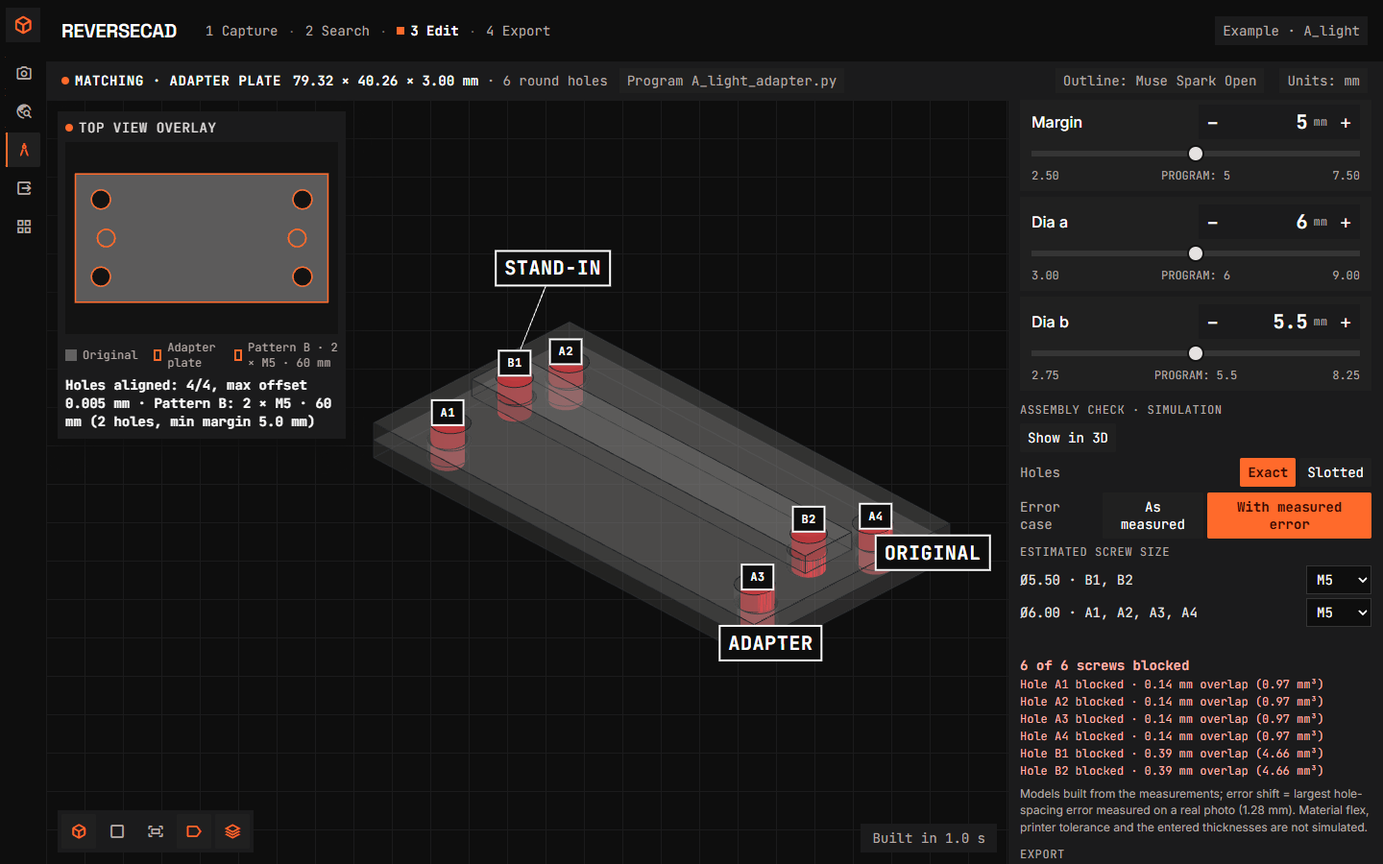
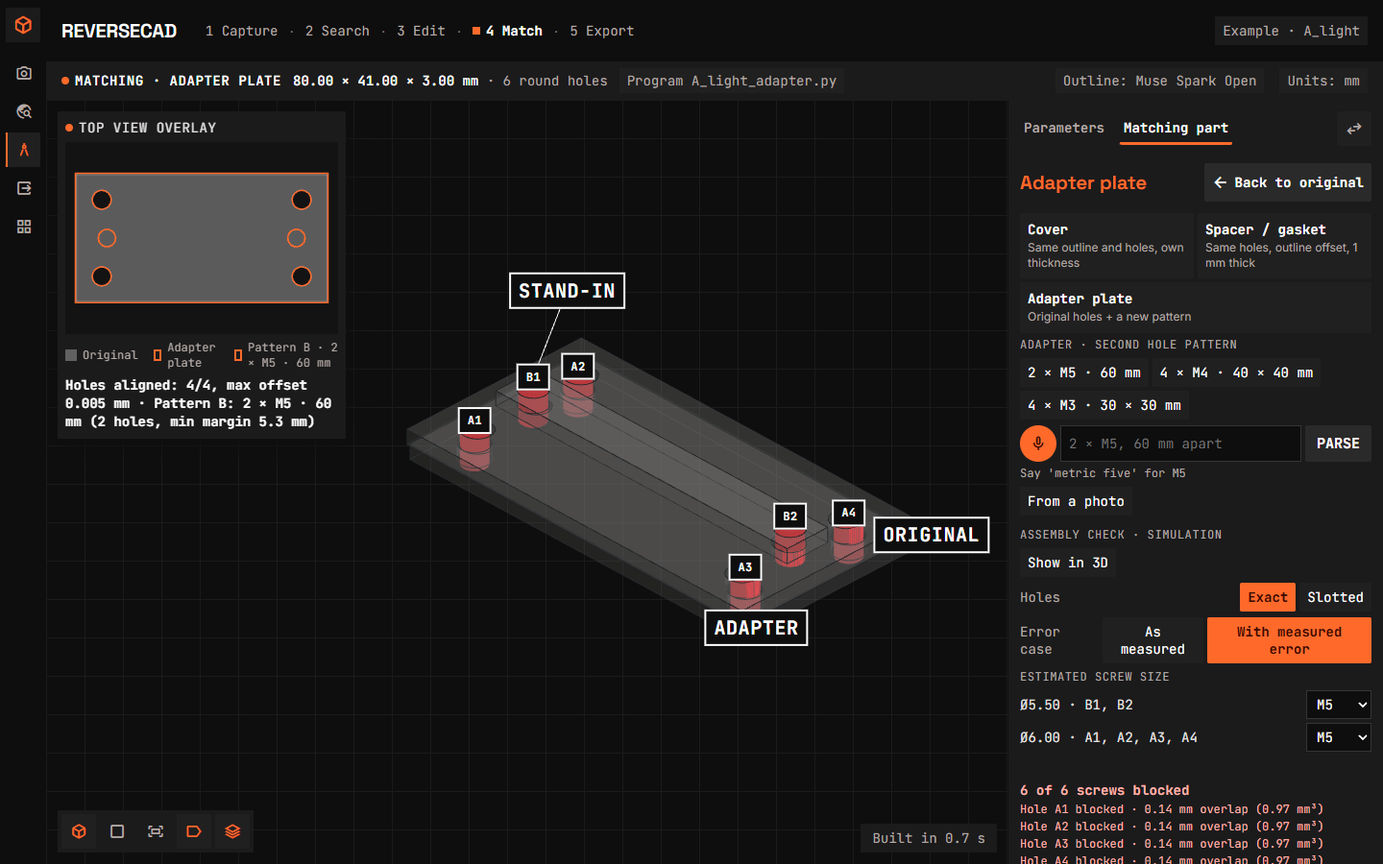
[muse-code] Matching tab, step 4 Match, panel width toggle
Edit panel tabs (Parameters/Matching part), 5-step bar with Match, ?step=match link, 390/520px width toggle; label layout hardened (monotone lifts, wider strip, measured metrics). Layout only; 289 passed, 1 skipped; node clean.

diff --git a/webapp/static/index.html b/webapp/static/index.html
@@ -1,8 +1,9 @@
 <!doctype html>
 <!-- ReverseCAD web app. Layout adapted from the Stitch screens in design/ (capture, search, edit):
      icon rail, top bar, a sub-bar per screen, a large stage and an inspector. Every value on screen
-     is filled in by app.js from the back end. Open with ?run=<name>&step=capture|measure|search|edit
-     to jump straight to a screen of a saved run (used for screenshots and recordings). -->
+     is filled in by app.js from the back end. Open with ?run=<name>&step=capture|measure|search|edit|match
+     to jump straight to a screen of a saved run (match = the edit screen with the Matching part
+     tab; &match=adapter&pattern=N runs the adapter flow first). Used for screenshots and recordings. -->
 <html lang="en">
 <head>
   <meta charset="utf-8">
@@ -41,7 +42,8 @@
       <button data-screen="capture">1 Capture</button><span class="dot">·</span>
       <button data-screen="search" disabled>2 Search</button><span class="dot">·</span>
       <button data-screen="edit" disabled>3 Edit</button><span class="dot">·</span>
-      <button data-screen="export" disabled>4 Export</button>
+      <button data-screen="match" disabled>4 Match</button><span class="dot">·</span>
+      <button data-screen="export" disabled>5 Export</button>
     </nav>
     <div class="progress hidden" id="progress">
       <div class="progress-text"><span id="progress-label"></span><span class="progress-count" id="progress-count"></span></div>
@@ -234,16 +236,17 @@
           </div>
           <div class="model-status" id="model-status"></div>
         </div>
-        <aside class="edit-panel" id="edit-panel">
-          <div class="matching-bar hidden" id="matching-bar">
-            <span class="matching-name" id="matching-name"></span>
-            <button id="matching-back"><span class="icon">arrow_back</span>Back to original</button>
+        <aside class="edit-panel" id="edit-panel" data-tab="parameters">
+          <div class="panel-tabs">
+            <button class="panel-tab-button active" data-tab="parameters">Parameters</button>
+            <button class="panel-tab-button" data-tab="matching">Matching part</button>
+            <button class="icon-button" id="panel-wide" title="Wide panel"><span class="icon">swap_horiz</span></button>
           </div>
-          <div class="edit-panel-head">
+          <div class="edit-panel-head tab-parameters-only">
             <div><h2>Design parameters</h2><span class="label">named in the program</span></div>
             <button class="icon-button" id="reset-parameters" title="Reset to the program's values"><span class="icon">restart_alt</span></button>
           </div>
-          <div class="break-card hidden" id="break-card">
+          <div class="break-card hidden tab-parameters-only" id="break-card">
             <div class="break-head"><span class="break-title"><span class="icon accent">warning</span>Possible break detected</span><span class="chip-muted chip-small">Muse Wonder</span></div>
             <p class="break-suggestion" id="break-suggestion"></p>
             <div class="break-parts" id="break-parts"></div>
@@ -254,10 +257,13 @@
               <button class="break-ignore" id="break-ignore">Ignore</button>
             </div>
           </div>
-          <div class="sliders" id="sliders"></div>
-          <div class="matching-block" id="matching-block">
-            <button class="matching-open" id="matching-open"><span class="icon">layers</span>Make a matching part</button>
-            <div class="matching-choices hidden" id="matching-choices">
+          <div class="sliders tab-parameters-only" id="sliders"></div>
+          <div class="matching-bar hidden tab-matching-only" id="matching-bar">
+            <span class="matching-name" id="matching-name"></span>
+            <button id="matching-back"><span class="icon">arrow_back</span>Back to original</button>
+          </div>
+          <div class="matching-block tab-matching-only" id="matching-block">
+            <div class="matching-choices" id="matching-choices">
               <button data-kind="cover"><strong>Cover</strong><span>Same outline and holes, own thickness</span></button>
               <button data-kind="spacer"><strong>Spacer / gasket</strong><span>Same holes, outline offset, 1 mm thick</span></button>
               <button data-kind="adapter"><strong>Adapter plate</strong><span>Original holes + a new pattern</span></button>
@@ -301,7 +307,7 @@
               <p class="status-line" id="adapter-status"></p>
             </div>
           </div>
-          <div class="assembly-block hidden" id="assembly-block">
+          <div class="assembly-block hidden tab-matching-only" id="assembly-block">
             <span class="label">Assembly check · simulation</span>
             <div class="assembly-row"><button type="button" id="assembly-show">Show in 3D</button></div>
             <div class="assembly-row" id="assembly-style-row">
@@ -320,7 +326,7 @@
             <div class="assembly-verdict hidden" id="assembly-verdict"></div>
             <p class="assembly-caption">Models built from the measurements; error shift = largest hole-spacing error measured on a real photo (1.28 mm). Material flex, printer tolerance and the entered thicknesses are not simulated.</p>
           </div>
-          <div class="voice-card" id="voice-card">
+          <div class="voice-card tab-parameters-only" id="voice-card">
             <div class="voice-top">
               <button class="mic" id="voice-mic" title="Speak a command (Muse Voice Transcribe)" disabled><span class="icon">mic</span></button>
               <div class="voice-text">
@@ -335,7 +341,7 @@
             </div>
             <p class="break-note" id="voice-note"></p>
           </div>
-          <div class="exports-block">
+          <div class="exports-block tab-parameters-only">
             <span class="label">Export</span>
             <div class="exports">
               <button data-format="step"><strong>STEP</strong><span>Solid for CAD</span></button>

diff --git a/webapp/static/app.js b/webapp/static/app.js
@@ -42,24 +42,44 @@ const mm = (value, digits = 2) => `${Number(value).toFixed(digits)} mm`;
 
 // ---------- screens ----------
 function setScreen(screen) {
+  // "match" is step 4: the edit screen with the Matching part tab (one source of truth for both).
   state.screen = screen;
-  document.querySelectorAll("#steps button, #rail button").forEach((b) => b.classList.toggle("active", b.dataset.screen === screen));
-  ["capture", "search", "edit", "export", "parts"].forEach((name) => $(`screen-${name}`).classList.toggle("hidden", name !== screen));
+  const section = screen === "match" ? "edit" : screen;
+  document.querySelectorAll("#steps button, #rail button").forEach((b) => b.classList.toggle("active",
+    b.dataset.screen === screen || (screen === "match" && b.dataset.screen === "edit" && b.closest("#rail"))));
+  ["capture", "search", "edit", "export", "parts"].forEach((name) => $(`screen-${name}`).classList.toggle("hidden", name !== section));
+  if (section === "edit") selectPanelTab(screen === "match" ? "matching" : "parameters");
   if (screen === "capture") render();
-  if (screen === "edit" && state.viewer) state.viewer.resize();
+  if (section === "edit" && state.viewer) state.viewer.resize();
   updateHeader();
 }
+
+function selectPanelTab(tab) {
+  // Instant show/hide only, so switching tabs keeps every slider value, input and verdict.
+  document.querySelectorAll(".panel-tab-button").forEach((b) => b.classList.toggle("active", b.dataset.tab === tab));
+  $("edit-panel").dataset.tab = tab;
+}
+
+document.querySelectorAll(".panel-tab-button").forEach((button) =>
+  button.addEventListener("click", () => setScreen(button.dataset.tab === "matching" ? "match" : "edit")));
+
+$("panel-wide").addEventListener("click", () => {
+  const wide = $("edit-panel").classList.toggle("wide");
+  $("panel-wide").title = wide ? "Narrow panel" : "Wide panel";
+  if (state.viewer) state.viewer.resize();  // the 3D view and its labels follow the new width
+});
 
 function enableSteps() {
   const canEdit = !!(state.done && state.done.result_source && !state.done.result_source.startsWith("none"));
   document.querySelectorAll('[data-screen="search"]').forEach((b) => (b.disabled = !state.analysis));
-  document.querySelectorAll('[data-screen="edit"], [data-screen="export"]').forEach((b) => (b.disabled = !canEdit));
+  document.querySelectorAll('[data-screen="edit"], [data-screen="match"], [data-screen="export"]').forEach((b) => (b.disabled = !canEdit));
 }
 
 document.querySelectorAll("#steps button, #rail button").forEach((button) =>
-  button.addEventListener("click", () => {
+  button.addEventListener("click", async () => {
     if (button.dataset.screen === "export") showExport();
     else if (button.dataset.screen === "edit" && !state.winner) showModel();
+    else if (button.dataset.screen === "match" && !state.winner) { await showModel(); setScreen("match"); }
     else if (button.dataset.screen === "parts") openParts();
     else setScreen(button.dataset.screen);
   }));
@@ -1065,7 +1085,6 @@ function setMatchingLayout(info) {
   // The Edit screen for a matching part (info) or the original (null).
   $("edit-panel").classList.toggle("matching-mode", !!info);
   $("matching-bar").classList.toggle("hidden", !info);
-  $("matching-choices").classList.add("hidden");
   $("matching-status").textContent = "";
   $("matching-status").classList.remove("warning");
   $("model-title").textContent = info ? `MATCHING · ${info.title}` : "ACTIVE MODEL";
@@ -1201,7 +1220,6 @@ function drawOverlay(original, matching, holesB, labelB, holesA) {
   $("overlay-matching-item").classList.toggle("hidden", split);
 }
 
-$("matching-open").addEventListener("click", () => $("matching-choices").classList.toggle("hidden"));
 document.querySelectorAll("#matching-choices button").forEach((b) => b.addEventListener("click", () =>
   (b.dataset.kind === "adapter" ? showAdapterPanel() : showMatching(b.dataset.kind))));
 $("matching-back").addEventListener("click", () => showModel(state.matching.base));
@@ -1217,7 +1235,6 @@ let adapterPresets = null;  // preset chips, loaded once from the server
 async function showAdapterPanel() {
   const panel = $("adapter-panel");
   panel.classList.toggle("hidden");
-  $("matching-choices").classList.add("hidden");
   if (panel.classList.contains("hidden")) return;
   clearAdapterPreview();
   $("adapter-status").textContent = "";
@@ -1532,7 +1549,6 @@ async function runAdapter(pattern, matingRun = null) {
   clearAdapterPreview();
   $("matching-status").textContent = "";
   $("matching-status").classList.remove("warning");
-  $("adapter-panel").classList.add("hidden");
   $("model-status").textContent = "Placing the patterns…";
   const placed = await postJSON(`/api/runs/${state.run}/matching/adapter/place`, { base, pattern });
   if (!placed.ok) {
@@ -2315,12 +2331,13 @@ async function openDeepLink(run, params) {
   await measure();
   if (step === "measure") return;
   await streamCandidates();
-  if (step !== "edit" && step !== "export") return;
+  if (step !== "edit" && step !== "export" && step !== "match") return;
   await showModel();
   if (params.get("match") === "adapter") {  // &pattern=N picks the preset (screenshots, videos)
     await showAdapterPanel();
     await runAdapter(adapterPresets[Number(params.get("pattern")) || 0] || adapterPresets[0]);
   } else if (params.get("match")) await showMatching(params.get("match"));
+  if (step === "match" || params.get("match")) setScreen("match");  // a match flow lands on its tab
   if (step === "export") {
     await showExport();
     return;

diff --git a/webapp/static/viewer.js b/webapp/static/viewer.js
@@ -58,8 +58,10 @@ export function createViewer(container, { shiftRight = 0 } = {}) {
     const height = container.clientHeight || 600;
     renderer.setSize(width, height);
     labels.setSize(width, height);
-    if (assembly && part) fitProjected(framedBox(), framedBox().getCenter(new THREE.Vector3()));
-    else if (framedRadius) {
+    if (assembly && part) {
+      fitProjected(framedBox(), framedBox().getCenter(new THREE.Vector3()));
+      layoutSimLabels();  // tags follow the new width, as on a view change
+    } else if (framedRadius) {
       resetPan();
       setFrustum(framedRadius);
       panToClearLabels();
@@ -481,13 +483,16 @@ export function createViewer(container, { shiftRight = 0 } = {}) {
       entry.leader.geometry.dispose();
     }
     if ((!ghosts.length && !holes.length) || !part || assembly) return;  // in sim view all wait detached
+    labels.render(scene, camera);  // attach new label elements first, so every width below is measured, not estimated
     const stack = framedBox();
     camera.updateMatrixWorld();
     const mid = { x: (stack.min.x + stack.max.x) / 2, y: (stack.min.y + stack.max.y) / 2, z: (stack.min.z + stack.max.z) / 2 };
     const viewRect = container.getBoundingClientRect();
     const insetRect = document.querySelector(".fit-inset")?.getBoundingClientRect();
-    const clearLeft = (insetRect ? insetRect.right - viewRect.left : 0) + 78;
-    const clearRight = viewRect.width - 78;
+    // Strip margins past the widest tag's half-width ("MATING PART", ~80 px), so a label parked
+    // at the boundary still ends inside the viewport.
+    const clearLeft = (insetRect ? insetRect.right - viewRect.left : 0) + 88;
+    const clearRight = viewRect.width - 88;
     const camRight = new THREE.Vector3().setFromMatrixColumn(camera.matrixWorld, 0);
     const camUp = new THREE.Vector3().setFromMatrixColumn(camera.matrixWorld, 1);
     const mmPerPxX = (camera.right - camera.left) / (container.clientWidth || 800);
@@ -514,12 +519,15 @@ export function createViewer(container, { shiftRight = 0 } = {}) {
         at[1] += camRight.y * step;
         at[2] += camRight.z * step;
       }
+      // One direction only (away from the first hit): reversing between two stacked labels
+      // would oscillate and end overlapped, while a monotone climb always terminates clear.
+      let dir = 0;
       for (let lift = 0; lift < 12; lift++) {
         const [sx, sy] = project(at);
         const hit = placed.find(([px, py, pw, ph]) =>
           Math.abs(sx - px) < pw + hw + 6 && Math.abs(sy - py) < ph + hh + 6);
         if (!hit) break;
-        const dir = sy <= hit[1] ? 1 : -1;
+        if (!dir) dir = sy <= hit[1] ? 1 : -1;
         const step = ((hit[3] + hh + 6) - Math.abs(sy - hit[1]) + 2) * mmPerPxY * dir;
         at[0] += camUp.x * step;
         at[1] += camUp.y * step;
@@ -606,12 +614,15 @@ export function createViewer(container, { shiftRight = 0 } = {}) {
         tagAt[1] += camRight.y * step;
         tagAt[2] += camRight.z * step;
       }
+      // One direction only (away from the first hit): reversing between two stacked labels
+      // would oscillate and end overlapped, while a monotone climb always terminates clear.
+      let dir = 0;
       for (let lift = 0; lift < 12; lift++) {
         const [sx, sy] = project(tagAt);
         const hit = placed.find(([px, py, pw, ph]) =>
           Math.abs(sx - px) < pw + 58 + 6 && Math.abs(sy - py) < ph + 16 + 6);
         if (!hit) break;
-        const dir = sy <= hit[1] ? 1 : -1;  // lift away from the label underneath
+        if (!dir) dir = sy <= hit[1] ? 1 : -1;  // lift away from the label underneath
         const step = ((hit[3] + 16 + 6) - Math.abs(sy - hit[1]) + 2) * mmPerPxY * dir;
         tagAt[0] += camUp.x * step;
         tagAt[1] += camUp.y * step;
@@ -819,6 +830,9 @@ export function createViewer(container, { shiftRight = 0 } = {}) {
   }
 
   window.addEventListener("resize", resize);
+  // Label placement reads rendered text metrics, so place again once webfonts arrive;
+  // whichever finishes first, the final layout uses final metrics.
+  if (document.fonts && document.fonts.ready) document.fonts.ready.then(() => resize());
   resize();
   loop();
   // Triangles of the shown part's mesh (the STL the viewer loaded).

diff --git a/webapp/static/app.css b/webapp/static/app.css
@@ -293,6 +293,13 @@ table.values tr.heading td { padding-top: var(--space-2); color: var(--color-tex
 .dim-label.changed { border-color: var(--color-selected); color: var(--color-selected); }
 
 .edit-panel { width: var(--edit-panel-width); flex-shrink: 0; background: var(--color-low); padding: var(--space-4); display: flex; flex-direction: column; gap: var(--space-4); overflow-y: auto; }
+.edit-panel.wide { width: min(var(--edit-panel-wide), calc(50vw - var(--rail-width))); }
+.panel-tabs { position: sticky; top: calc(-1 * var(--space-4)); z-index: 10; margin: calc(-1 * var(--space-4)) calc(-1 * var(--space-4)) 0; padding: var(--space-4) var(--space-4) var(--space-2); background: var(--color-low); display: flex; align-items: center; gap: var(--space-4); }
+.panel-tab-button { background: transparent; color: var(--color-text-muted); font-family: var(--font-mono); font-size: var(--font-size-label-lg); font-weight: 600; padding: var(--space-2) var(--space-1); border-bottom: 3px solid transparent; white-space: nowrap; }
+.panel-tab-button.active { color: var(--color-text-strong); border-bottom-color: var(--color-selected); }
+.panel-tabs .icon-button { margin-left: auto; flex-shrink: 0; }
+.edit-panel[data-tab="parameters"] .tab-matching-only { display: none; }
+.edit-panel[data-tab="matching"] .tab-parameters-only { display: none; }
 .edit-panel-head { display: flex; justify-content: space-between; align-items: center; }
 .edit-panel-head > div { display: flex; flex-direction: column; gap: 2px; }
 .icon-button { width: 36px; height: 36px; display: grid; place-items: center; background: var(--color-container); color: var(--color-text-muted); }
@@ -438,7 +445,7 @@ table.values tr.heading td { padding-top: var(--space-2); color: var(--color-tex
 /* ---------- matching part ---------- */
 .matching-block { display: flex; flex-direction: column; gap: var(--space-1); }
 .matching-block .status-line:empty { display: none; }
-.matching-open, .matching-bar button { height: 40px; display: flex; align-items: center; justify-content: center; gap: var(--space-2); background: var(--color-high); color: var(--color-text-strong); font-family: var(--font-mono); font-size: var(--font-size-label-lg); font-weight: 700; }
+.matching-bar button { height: 40px; display: flex; align-items: center; justify-content: center; gap: var(--space-2); background: var(--color-high); color: var(--color-text-strong); font-family: var(--font-mono); font-size: var(--font-size-label-lg); font-weight: 700; }
 .matching-choices { display: grid; grid-template-columns: repeat(2, 1fr); gap: var(--space-1); }
 .matching-choices button[data-kind="adapter"] { grid-column: 1 / -1; }
 .adapter-panel { display: flex; flex-direction: column; gap: var(--space-2); }
@@ -481,7 +488,7 @@ table.values tr.heading td { padding-top: var(--space-2); color: var(--color-tex
 .matching-bar { display: flex; align-items: center; justify-content: space-between; gap: var(--space-3); }
 .matching-bar button { padding: 0 var(--space-3); flex-shrink: 0; }
 .matching-name { font-family: var(--font-heading); font-size: var(--font-size-headline); font-weight: 600; color: var(--color-selected); }
-.matching-mode .voice-card, .matching-mode .break-card, .matching-mode .off-note, .matching-mode .matching-block { display: none; }
+.matching-mode .voice-card, .matching-mode .break-card, .matching-mode .off-note { display: none; }
 .fit-head .chip-accent:empty { display: none; }
 .overlay-view { width: 100%; height: 200px; display: block; background: var(--color-bg); }
 .overlay-original { fill: var(--color-text); fill-opacity: 0.35; fill-rule: evenodd; stroke: var(--color-text); stroke-opacity: 0.5; stroke-width: 1px; vector-effect: non-scaling-stroke; }

diff --git a/webapp/static/tokens.css b/webapp/static/tokens.css
@@ -81,6 +81,7 @@
   --footer-height: 36px;
   --inspector-width: 360px;
   --edit-panel-width: 390px;
+  --edit-panel-wide: 520px;
   --summary-width: 22%;
   --grid-columns: 6;
   --inset-width: 300px;

diff --git a/CLAUDE.md b/CLAUDE.md
@@ -350,3 +350,4 @@ Phone photos are often saved sideways and rotated via an EXIF tag. SAM gives coo
 - [x] **Assembly check polish, demo video** (2026-11-02): no measurement or check-logic changes. Each blocked screw now shows its penetration depth in mm next to the volume — the extent of its intersection solid along the shift direction, measured in the worker by sectioning the clash solid (`clash_depth`, `penetration_mm` in the report, spec `version: 2`): "Hole B1 blocked · 0.39 mm overlap (4.66 mm³)". A_light + 2 × M5 with M5 screws, exact + error: A holes 0.14 mm (0.97 mm³), B holes 0.39 mm (4.66 mm³) — matches the hand calc (0.64 mm/side shift minus radial slack). The sim camera now fits the stack to ~80% of the visible viewer (`fitProjected`, current-view fit; also fixed a stale-orientation bug in it that left the top view empty). During the check only plate tags (ORIGINAL / ADAPTER / MATING PART / STAND-IN) plus blocked-screw labels show; tags are re-placed per view (`layoutSimLabels`: own outside corner skipping the panel side, clamped clear of overlay and sidebar, lifted past other labels) — a real-rect probe reports 0 overlapping pairs in iso, top and slotted views. Slotted header counts slots ("6 slots"). Tests for depth (approx 0.14 / 0.39 ± 0.02) and the slot header; full suite 283 passed, 1 skipped; node --check clean. Shots refreshed: `reports/ui/A_light_assembly_exact_blocked.png`, `reports/ui/A_light_assembly_slotted_pass.png`.
 - [x] **Fresh-clone fixes** (2026-11-03, from an independent Linux run at 56c44d4, keyless): no measurement or check-logic changes. (1) Repair runs: the selected R card shows "Repaired by Muse Wonder: \<diagnosis\>" at body size and the top line reads "Search finished · repaired by Muse Wonder" (`result_source` starts with "repair"). (2) Slotted overlay draws pattern A's slots dashed like B's (`holes_a` in the `/check` answer: slot forms centered on the built adapter's A holes, closest pairs first, length = diameter + 2 × SHIFT_MM along pattern A's axis; legend item "Pattern A · slots"). Proof on A_light + 2 × M5: dashed A boxes equal the built A-slot boxes (centers exact, 8.56 vs 8.55 mm = profile sampling). (3) Normal adapter 3D view: ghost tags + hole labels are placed per view (`layoutPartLabels`: own outside corners skipping the panel side, clamped into the visible strip, lifted past fixed dimension labels), the camera pans for dimension labels and zooms out when the labels are wider than the strip (`panToClearLabels`, `labelPan` + reset so pans never skew or accumulate). Fixed two real bugs found while probing: a `reset()` during the intro rise left the new view unframed (rise token cancels stale rises) and the pan moved the picture the wrong way (sign). A_light + 4 × M4 repro now: 0 overlapping pairs, nothing behind the panel; sweep over 7 views (adapter p0/p1 iso+top, slotted, cover, plain) all 0 pairs / 0 behind / 0 sidebar-clipped. (4) "Show in 3D" button at the top of the assembly panel, opens the sim like the toolbar icon (one-way). (5) README Tests: 275 passed, 9 skipped (Linux, Python 3.13, at 56c44d4); "Running on Muse Spark Open:". One endpoint test (`holes_a` present only in slotted mode, 8.56 × 6.0 at axis 0, on built slots); full suite 284 passed, 1 skipped; node --check clean. UI fixes verified by real-rect probes + screenshots (no maintained UI harness). Shots: refreshed adapter / ghosts (= top view now) / edit / both assembly shots, added `reports/ui/A_light_assembly_slotted_pass.png` overlay proof and `reports/ui/A_light_repair_search.png`. Cost this session: 2 fresh Spark outline searches (2 × M5, 4 × M4 presets), ≈ $0.07 at the unverified price.
 - [x] **Assembly check physics fix** (2026-11-03): only the adapter is the part we make, so the original and the mating part / stand-in always keep their round holes — in every hole style and error case, in the 3D sim, the overlay and the exports — and only the adapter gets slots in Slotted mode. Screws now seat in the outer plates' real holes (nominal, or shifted outward with the error case) and must clear the adapter's nominal rounds (Exact) or slots (Slotted); interference still per screw per plate in CadQuery. The stack spec moved into `assembly_check.build_stack` (pure, unit-tested; spec version 3 retires old cached checks), `as_slot_record` is gone, the endpoint only fetches profiles and shapes the response. A_light + preset 2 × M5 (fallback outline): Exact + as-measured passes (all zeros), Exact + error blocks 6/6 at the adapter (A 0.140 mm / 1.024 mm³, B 0.390 mm / 4.655 mm³ — the 0.64 mm/side shift minus radial slack; every clash solid is on the adapter), Slotted passes in both error cases. Both assembly shots refreshed with one fresh 3-candidate Spark outline search (3/3 passed, 3275 in / 7392 out tokens, ≈ $0.036 at the unverified price; outline now 79.32 × 40.26, min margin 5.0; the shots show 0.97 / 4.66 mm³ since the Spark adapter's holes equal the original's), zero console errors. Tests: `test_assembly_check.py` 26 (4 `build_stack` unit tests incl. outer-round in all 4 cases, adapter-only clash assertions, the 4th verdict); full suite 289 passed, 1 skipped; node --check clean. Measurement side untouched.
+- [x] **Matching tab, step 4 Match, panel width toggle** (2026-11-03): layout and navigation only — no measurement, check, or computed-value changes. The edit screen's right panel has Parameters / Matching part tabs (sticky tab bar; Matching shows the three choice cards with their one-line descriptions, then the kind's controls — the adapter keeps its pattern B inputs open plus hole style, error case, screw sizes, Show in 3D and verdict; the "Make a matching part" opener is gone). Tab and step share one state (`match` pseudo-screen like `measure`); "Back to original" lands on Parameters; step bar is 1 Capture · 2 Search · 3 Edit · 4 Match · 5 Export (rail unchanged); `?step=match` (+ `&match=adapter&pattern=N`) deep link, match flows land on the tab, old links keep working. The tab bar's width button toggles 390 ↔ 520 px (`min(520px, 50vw − rail)`, so the 3D view keeps half the window; no drag); the toggle calls `viewer.resize()`, and sim tags now re-place on resize. Probe-found label fixes: monotone lift direction in both place loops (a ghost tag oscillated against stacked hole labels in wide mode), strip margins 78 → 88 px (past the widest tag's half-width), a render kick plus `fonts.ready` relayout so placement always uses measured text metrics (label positions wobbled ±30 px across loads before). No animations added (instant switches; reduced-motion safe), dark theme and single accent kept. Verified by a 43-check Playwright probe, all pass with zero console errors: 5-step bar, tabs, cards, widths (panel 390/520, viewport 872 at 1440), state kept across switches, no overlaps in either width (adapter part + sim labels, panel children, completion card, repaired search). Shots: 4 new tab shots + both assembly sim shots refreshed (README image current); older reports/ui shots still show the previous chrome. Cost: 1 fresh Spark outline search (2/3 passed, winner 2; 3275 in / 5362 out ≈ $0.027 unverified; 80 × 41 outline). Full suite 289 passed, 1 skipped; node --check clean.

diff --git a/README.md b/README.md
@@ -169,19 +169,17 @@ Prefer no install at all? The **[online demo](https://zeynepsdklc--reversecad-de
 
 ## Using the app
 
-1. **Photo**: pick a saved run or upload a photo, click the part (not a hole), enter its thickness.
-2. **Measurements**: card, outline, and holes are drawn over the photo with their sizes; the table shows the numbers the model will get.
-3. **Candidates**: programs arrive one by one with their silhouette, IoU, parameter count and, if rejected, why.
-4. **Model**: the result in 3D; one slider per named parameter rebuilds the part when released (about 0.3 s).
-5. **Download**: STL, STEP, DXF, the 1:1 print template, or the CadQuery program (`.py`) with the slider values as its defaults.
-6. **Make a matching part** (on the model screen): a **cover** (same outline and holes, own thickness), a **spacer / gasket** (same holes, outline offset), or an **adapter plate** (the original's holes plus a new pattern such as "2 × M5 · 60 mm", placed by fixed rules, outline by Muse Spark Open). A computed line ("Holes aligned: 4/4, max offset 0.000 mm") shows that the holes line up.
+1. **Capture**: pick a saved run or upload a photo, click the part (not a hole), enter its thickness. The card, outline, and holes are drawn over the photo with their sizes; the table shows the numbers the model will get.
+2. **Search**: candidate programs arrive one by one with their silhouette, IoU, parameter count and, if rejected, why.
+3. **Edit**: the result in 3D; the Parameters tab holds one slider per named parameter (rebuilding on release, about 0.3 s), voice editing, and any break-completion suggestion.
+4. **Match**: the Matching part tab offers a **cover** (same outline and holes, own thickness), a **spacer / gasket** (same holes, outline offset), or an **adapter plate** (the original's holes plus a new pattern such as "2 × M5 · 60 mm", placed by fixed rules, outline by Muse Spark Open). A computed line ("Holes aligned: 4/4, max offset 0.000 mm") shows that the holes line up. The adapter also has the assembly check: Exact or Slotted holes, As measured or With measured error, with estimated screw sizes per hole group; the 3D simulation stacks the plates, seats each screw in the outer plates' real holes, and colors it by its computed interference volume. Only the adapter gets slots in Slotted mode — the original and mating parts already exist and keep their round holes. It checks rigid hole-vs-screw overlap only — material flex, printer tolerance, and thickness errors are not simulated.
 
 ![Adapter plate](reports/ui/A_light_adapter.png)
 *A cover, spacer, or adapter plate made from the built result.*
-7. **Assembly check** (on the adapter screen): Exact or Slotted holes, As measured or With measured error, with estimated screw sizes per hole group; the 3D simulation stacks the plates, seats each screw in the outer plates' real holes, and colors it by its computed interference volume. Only the adapter gets slots in Slotted mode — the original and mating parts already exist and keep their round holes. It checks rigid hole-vs-screw overlap only — material flex, printer tolerance, and thickness errors are not simulated.
 
 ![Assembly check](reports/ui/A_light_assembly_exact_blocked.png)
 *With the worst measured spacing error (1.28 mm), all 6 exact-hole screws block; slots let them pass.*
+5. **Export**: the technical drawing and download packages: STL, STEP, DXF, the 1:1 print template, or the CadQuery program (`.py`) with the slider values as its defaults.
 
 ## Command-line scripts
 
